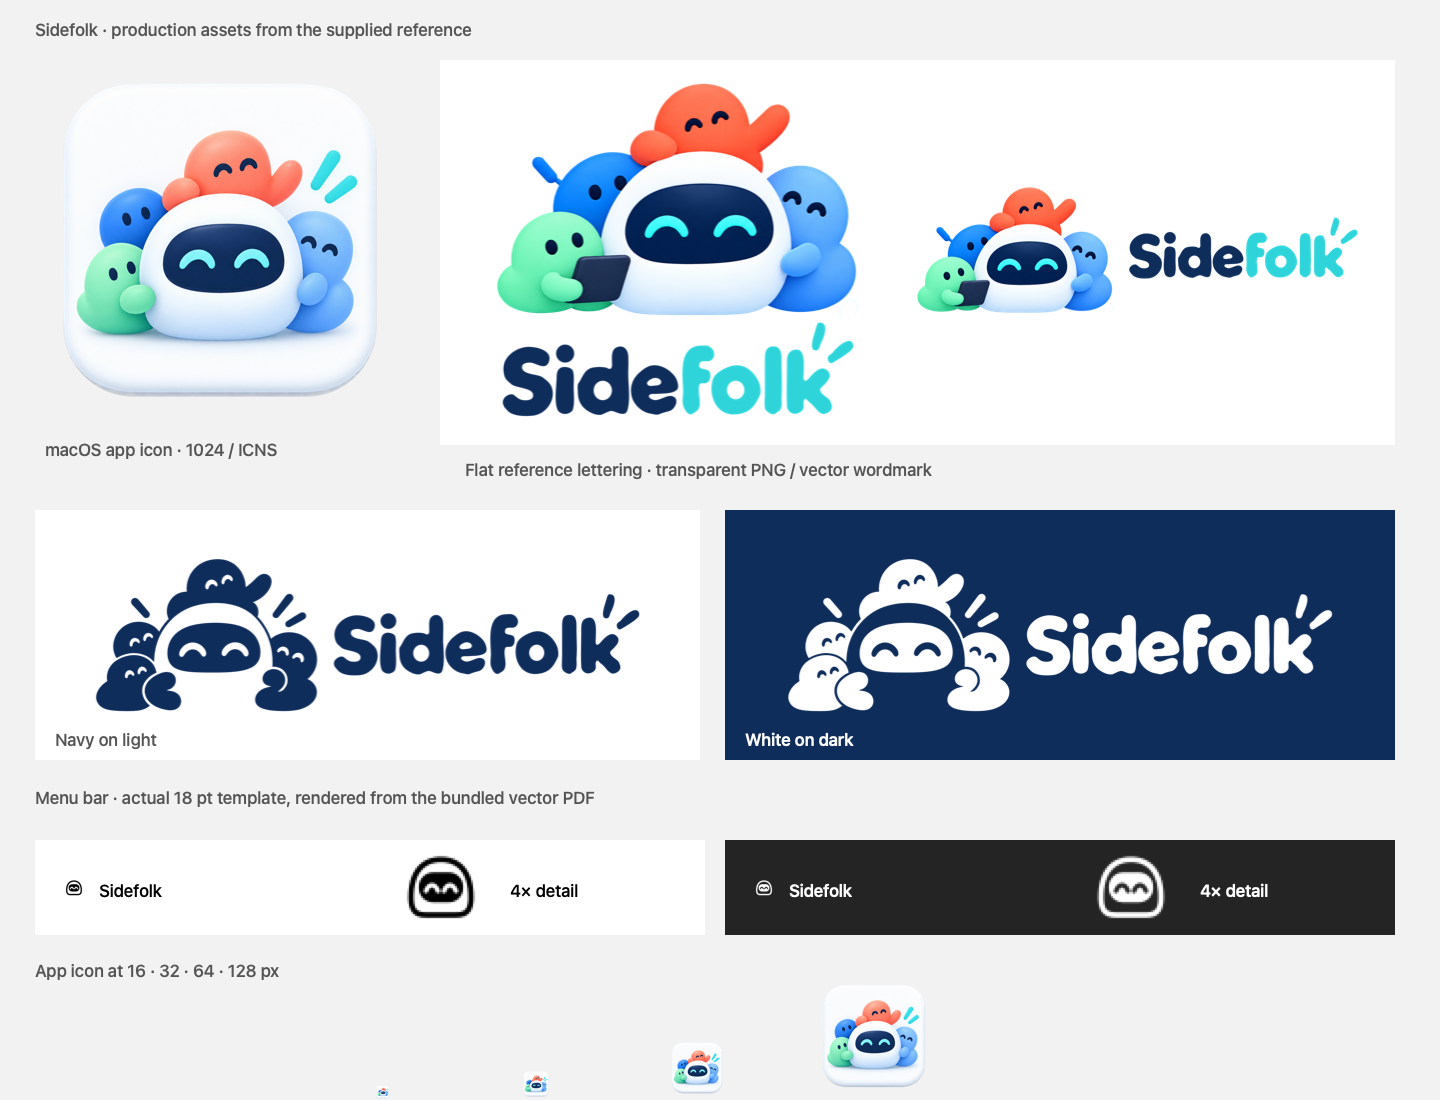
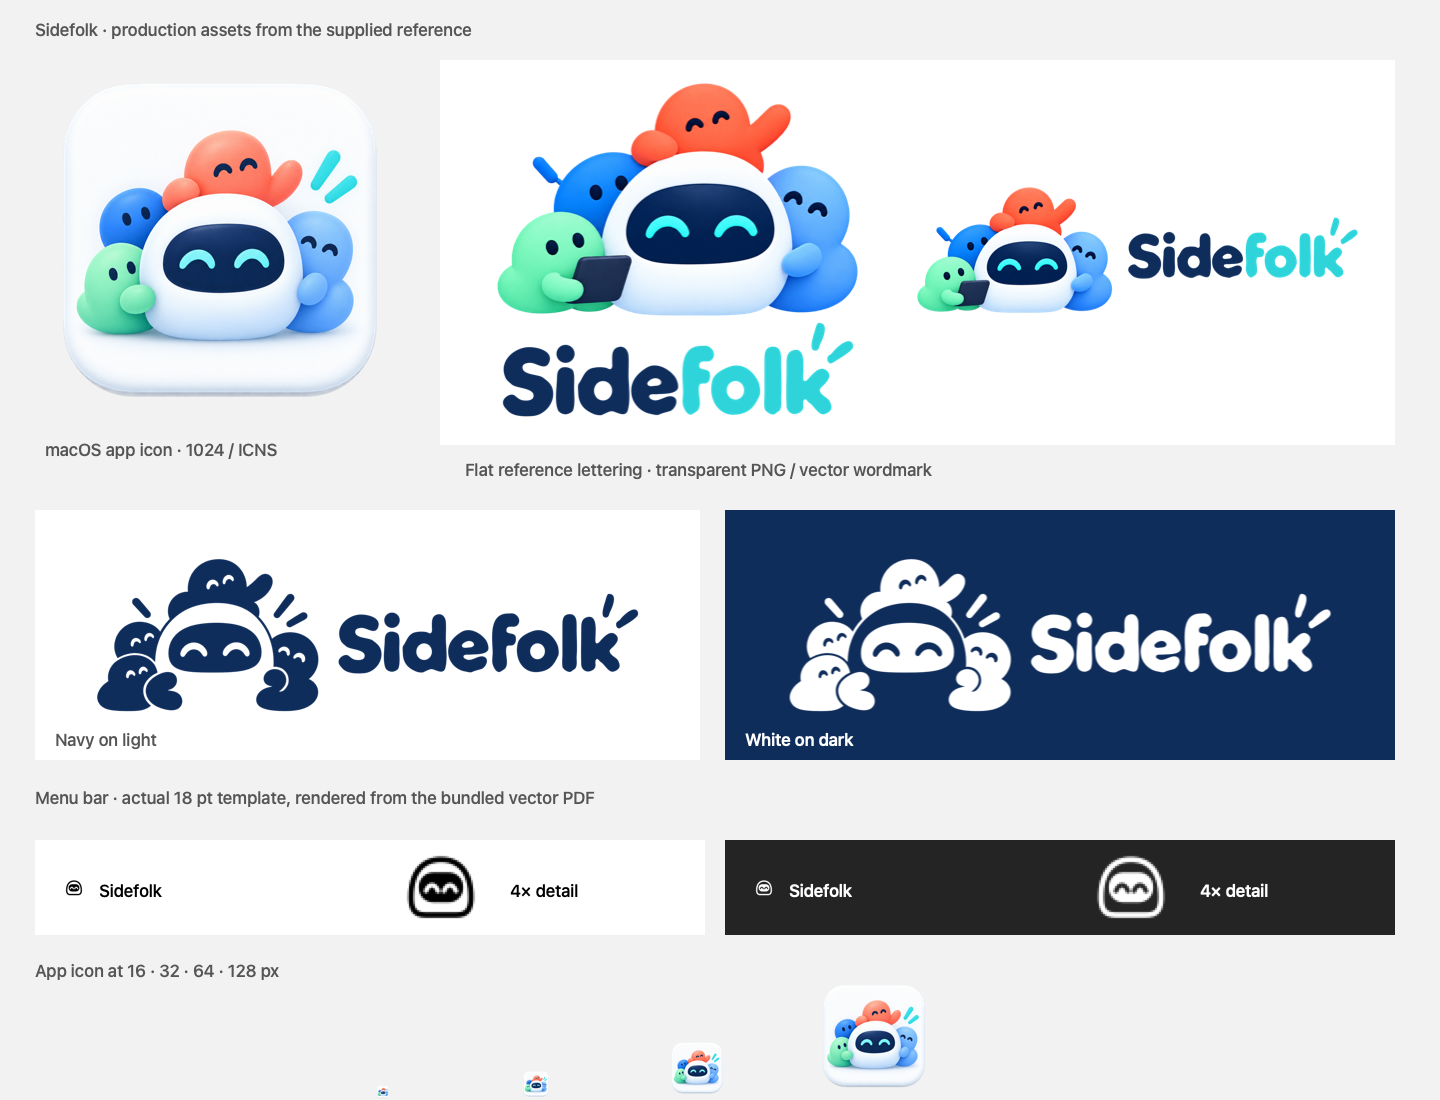
Clean crop-edge artifacts and verify production brand exports

diff --git a/scripts/brand-assets.swift b/scripts/brand-assets.swift
@@ -234,6 +234,21 @@ for y in 645..<700 { for x in 1030..<1100 {
     let r = Double(pp[i])/255, g = Double(pp[i+1])/255, b = Double(pp[i+2])/255
     if g > 0.5, b/g < 1.15, r < g*0.99 { for j in 0..<4 { pp[i+j] = 0 } }
 } }
+// Remove detached crop-edge flecks (including the discarded ray's pale antialias rim).
+var seen = [Bool](repeating: false, count: 1100*700)
+for start in seen.indices where !seen[start] && pp[start*4+3] > 8 {
+    var island = [start], cursor = 0
+    seen[start] = true
+    while cursor < island.count {
+        let at = island[cursor], x = at%1100, y = at/1100
+        cursor += 1
+        for next in [x > 0 ? at-1 : -1, x < 1099 ? at+1 : -1,
+                     y > 0 ? at-1100 : -1, y < 699 ? at+1100 : -1] where next >= 0 {
+            if !seen[next], pp[next*4+3] > 8 { seen[next] = true; island.append(next) }
+        }
+    }
+    if island.count < 256 { for at in island { for j in 0..<4 { pp[at*4+j] = 0 } } }
+}
 let primaryMark = normalized(primaryContext.makeImage()!)
 let mono = normalized(read("Resources/Brand/masters/mark-monochrome.png"), ink: navy)
 func tint(_ image: CGImage, _ ink: (Double, Double, Double)) -> CGImage {

diff --git a/docs/STATUS.md b/docs/STATUS.md
@@ -4,10 +4,19 @@ Updated: 2026-10-26, late morning (orchestrated by Claude; specialist agents in 
 into `rework`).
 
 ## Done and verified
-- **Spec and design:** PRODUCT, ARCHITECTURE, DECISIONS (D1–D24), SECURITY (threat model T1–T24),
+- **Spec and design:** PRODUCT, ARCHITECTURE, DECISIONS (D1–D25), SECURITY (threat model T1–T24),
   MACOS-NOTES, VOICE, FOUNDING, CHARACTER, EXTENSIONS.
 - **Character:** Core Animation rig with 11 states and 10 props, all 10 folks, app icon and menu bar
   template. Calm states settle after 20 s, loops are capped at 24 fps and pause while hidden (D20).
+- **Brand assets (2026-10-26):** reference-faithful app icon (1024 PNG, ten iconset representations,
+  ICNS); individual transparent stacked/horizontal logos, wordmarks and family marks in color,
+  navy and white. Generated text effects were rejected; the final flat wordmark uses denoised,
+  fitted cubic Bézier silhouettes from the original reference, with SVG/PDF and 4096 px PNG exports.
+  Native 18 pt menu template is a vector PDF plus 1x/2x/3x PNGs, bundled and loaded as an NSImage
+  template through `BrandAsset`. `make brand-assets` rebuilds exports and a light/dark preview.
+  Verified alpha, dimensions, SVG paths, PDF native loading, exact bundled bytes, signed debug
+  assembly and visual review at native menu size and high zoom. No brand work remains half done;
+  next step is the founder's visual sign-off on `Resources/Brand/preview.png`.
 - **Core:** storage (GRDB, FTS5, secure_delete, 0600 files) and Guard (risk, caller, taint, user-typed
   links, hardened path policy, folder-bound command grants, approvals). Every tool input is checked
   against its schema. The executor provides audit and undo. Also attention policy and center (held
